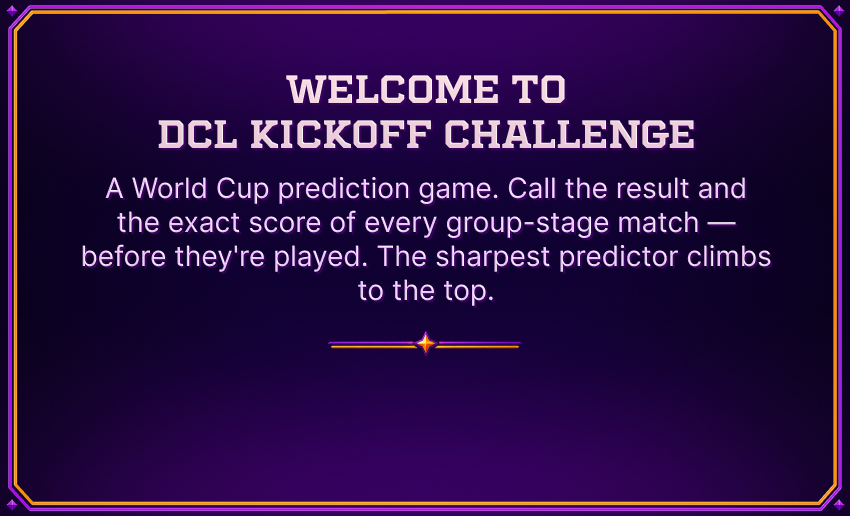
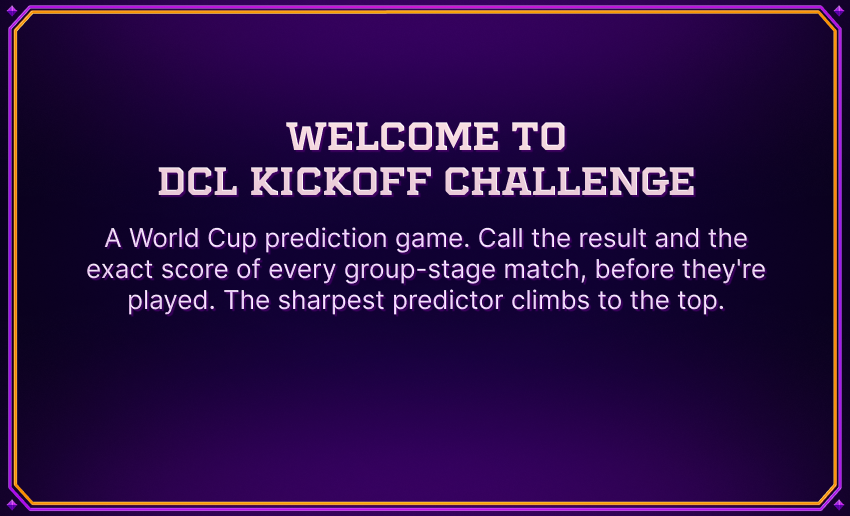
feat: add-final-uis

Changed region(s): [[0.0918, 0.124, 0.9176, 0.6202], [0.3671, 0.6512, 0.6118, 0.6822]]

diff --git a/schedule/prodeUi.tsx b/schedule/prodeUi.tsx
@@ -470,6 +470,12 @@ const GroupForm = () => {
 // ── Celebration: all 72 predictions complete ──────────────────────────────────
 const CompletionOverlay = () => {
   if (!celebrateState.visible) return <UiEntity uiTransform={{ display: 'none' }} />
+  const mob = isMobile()
+  const imgW = mob ? 1360 : 1000          // match the welcome / voting panel width
+  const imgH = imgW / 1.647               // allComplete.png is 850x516
+  const BTN_BOTTOM = mob ? 90 : 50        // LetsGo distance from image bottom
+  const btnH = mob ? 96 : 80
+  const btnW = btnH * 3.034               // LetsGo-primary.png ratio
   return (
     <UiEntity
       uiTransform={{
@@ -479,26 +485,19 @@ const CompletionOverlay = () => {
       }}
       uiBackground={{ color: OVERLAY }}
     >
+      {/* Completion panel (text baked into the image) — LetsGo button overlaid */}
       <UiEntity
         uiTransform={{
-          width: S(900), height: S(520), padding: S(56), alignSelf: 'center',
-          flexDirection: 'column', alignItems: 'center', justifyContent: 'space-between',
-          borderRadius: S(36)
+          width: S(imgW), height: S(imgH),
+          flexDirection: 'column', alignItems: 'center', justifyContent: 'flex-end'
         }}
-        uiBackground={{ color: DARK }}
+        uiBackground={{ texture: { src: 'images/buttons/allComplete.png' }, textureMode: 'stretch' }}
       >
-        <Label value="ALL PREDICTIONS COMPLETE!" fontSize={F(48)} color={VIOLET}
-          uiTransform={{ width: '100%', height: S(70), margin: '0 0 8px 0' }} />
-        <Label value={`You predicted all ${MATCHES.length} matches across the 12 groups.`}
-          fontSize={F(28)} color={Color4.White()} uiTransform={{ width: '100%', height: S(44) }} />
-        <Label value="Now sit back and watch the leaderboard - good luck!"
-          fontSize={F(26)} color={Color4.create(0.7, 0.7, 0.7, 1)} uiTransform={{ width: '100%', height: S(40) }} />
-        <Label value={`${myPoints()} pts so far`} fontSize={F(30)} color={GOLD}
-          uiTransform={{ width: '100%', height: S(44) }} />
-        <SfxButton value="Let's go!" variant="primary" fontSize={F(32)}
-          uiTransform={{ width: '100%', height: S(92), borderRadius: S(20) }}
-          color={VIOLET}
-          onMouseDown={() => { celebrateState.visible = false }} />
+        <UiEntity uiTransform={{ margin: `0 0 ${S(BTN_BOTTOM)}px 0` }}>
+          <ImgButton src="images/buttons/LetsGo-primary.png"
+            width={S(btnW)} height={S(btnH)}
+            onMouseDown={() => { celebrateState.visible = false }} />
+        </UiEntity>
       </UiEntity>
     </UiEntity>
   )